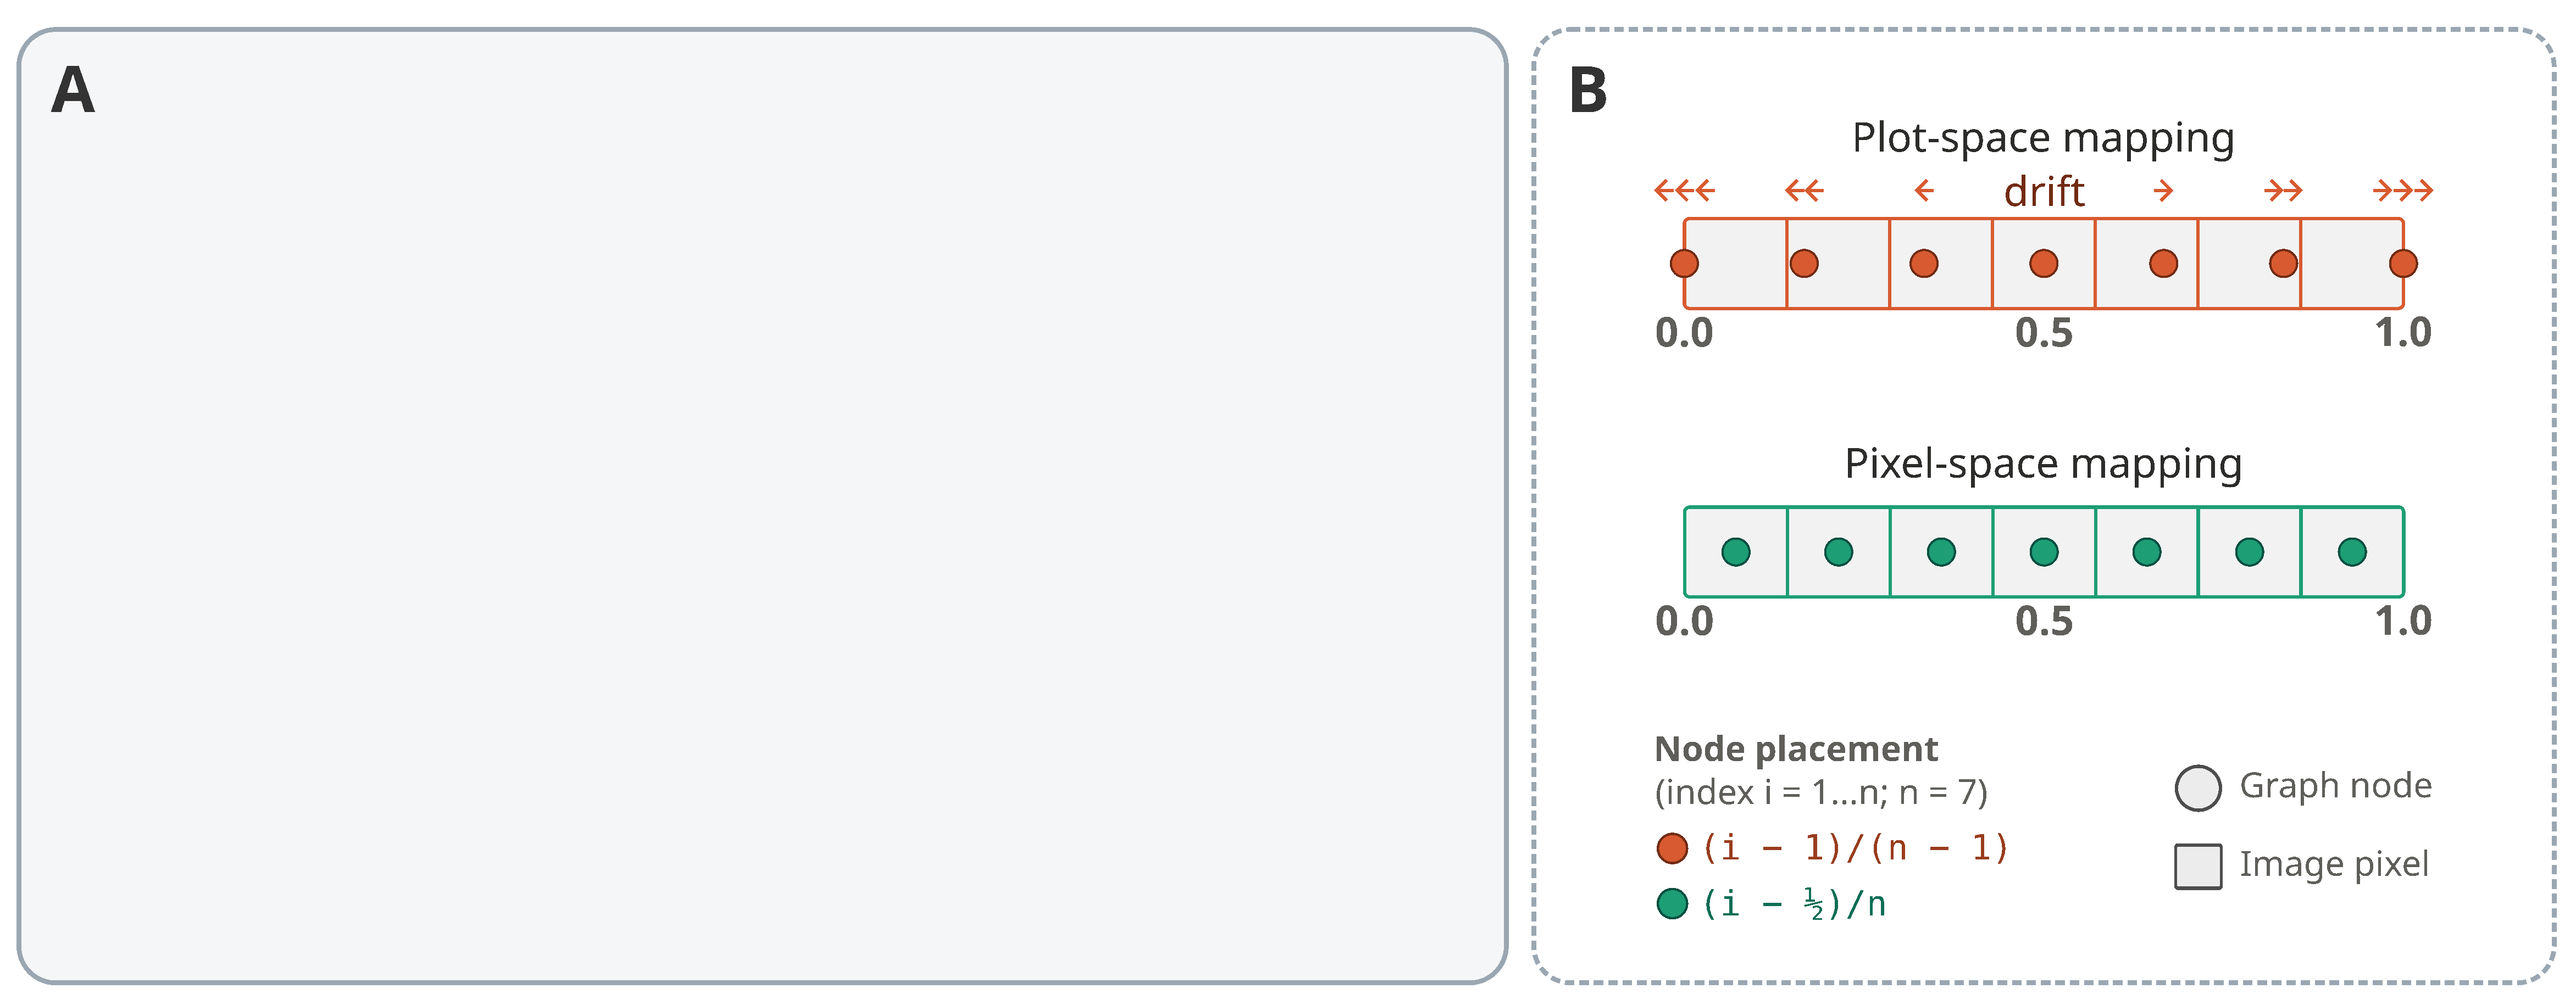
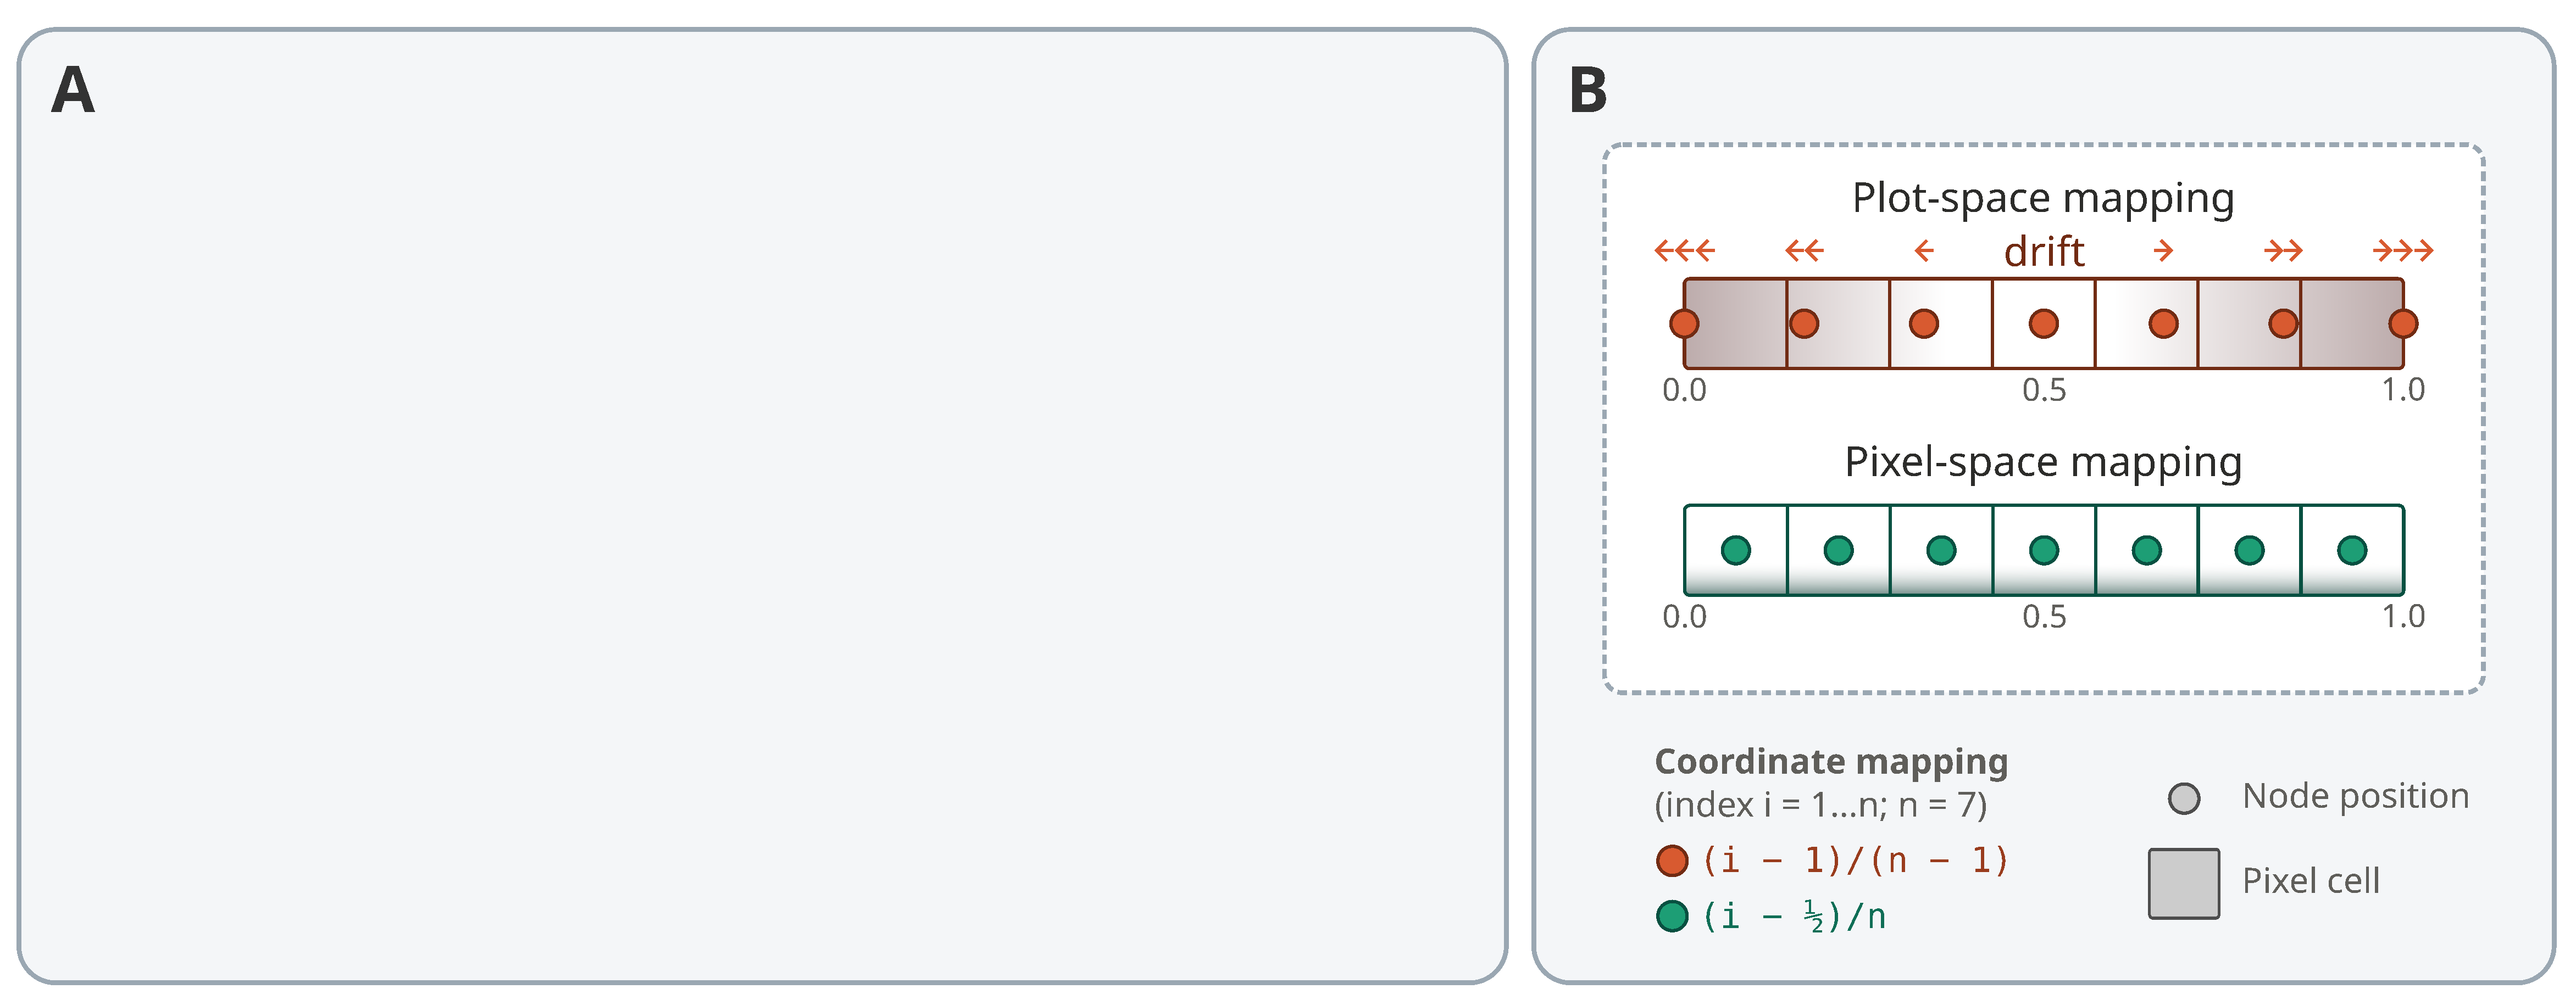
ms update

diff --git a/joss/paper.md b/joss/paper.md
@@ -47,9 +47,9 @@ A gap remains in how a graph's components are held together during rendering. Be
 
 *RGraphSpace* addresses this by treating a graph as a single coherent object throughout rendering. It takes an *igraph* object and scales the graph into a normalized coordinate space in which nodes, edges, and their associated elements are resolved together. Because node and edge geometry are synchronized at rendering time, edges are drawn with respect to the scaled extent of the nodes they connect, and this correspondence is maintained as aesthetics are mapped through the standard *ggplot2* grammar. 
 
-The normalized space serves a second purpose: it gives the graph a common spatial reference, allowing it to be registered against external coordinate systems, placing the graph within a broader spatial context. For images, spatial registration means that node coordinates are aligned and locked at the pixel level (\autoref{fig:figure1}A). This requires consistent coordinate conventions between the graph and the image; a mismatch in axis orientation, for example a top-left versus bottom-left origin, can cause the nodes and the image to be misaligned. Moreover, because each pixel occupies a finite square area, registering to a full plot space rather than the pixel center introduces a sub-pixel offset, drifting apart toward the plot edges (\autoref{fig:figure1}B). Such offsets may seem negligible in most cases, but can matter where high-resolution alignment is required, as in microscopy images.
+The normalized space serves a second purpose: it gives the graph a common spatial reference, allowing it to be registered against external coordinate systems, placing the graph within a broader spatial context. For images, spatial registration means that node coordinates are aligned and locked at the pixel level (\autoref{fig:figure1}A). This requires consistent coordinate conventions between the graph and the image; a mismatch in axis orientation, for example a top-left versus bottom-left origin, can cause the nodes and the image to be misaligned. Moreover, because each pixel cell occupies a finite square area, registering to a full plot space rather than the pixel center introduces a sub-pixel offset, drifting apart toward the plot edges (\autoref{fig:figure1}B). Such offsets may seem negligible in most cases, but can matter where high-resolution alignment is required, as in microscopy images.
 
-![Spatial registration. (**A**) A graph aligned to a background image within the normalized reference frame, so that nodes and edges are positioned against an external spatial reference such as a microscopy image. (**B**) Node placement under the two normalization modes: plot-space mapping, $(i-1)/(n-1)$, stretches node indices corner-to-corner across $[0,1]$, while pixel-space mapping, $(i-\tfrac{1}{2})/n$, places them at pixel centers; the two agree mid-axis and drift apart toward both ends.\label{fig:figure1}](figure1.png){width="100%"}
+![Spatial registration. (**A**) A graph aligned to a background image within the normalized reference frame, so that nodes and edges are positioned against an external spatial reference such as a microscopy image. (**B**) Node placement under the two coordinate mappings: plot-space mapping, $(i-1)/(n-1)$, stretches node indices corner-to-corner across $[0,1]$, while pixel-space mapping, $(i-\tfrac{1}{2})/n$, places them at pixel centers; the two agree mid-axis but drift apart toward both ends.\label{fig:figure1}](figure1.png){width="100%"}
 
 # State of the field
 
